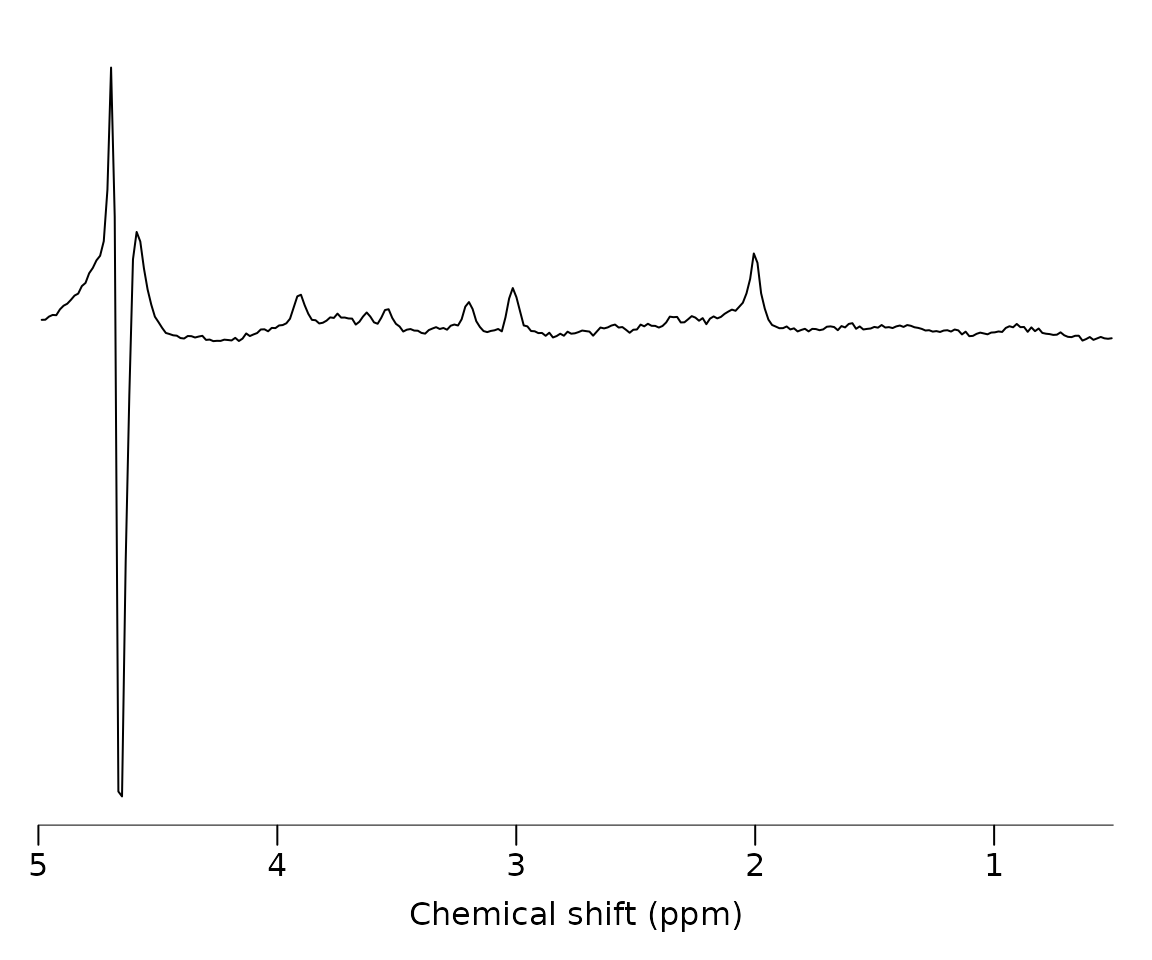
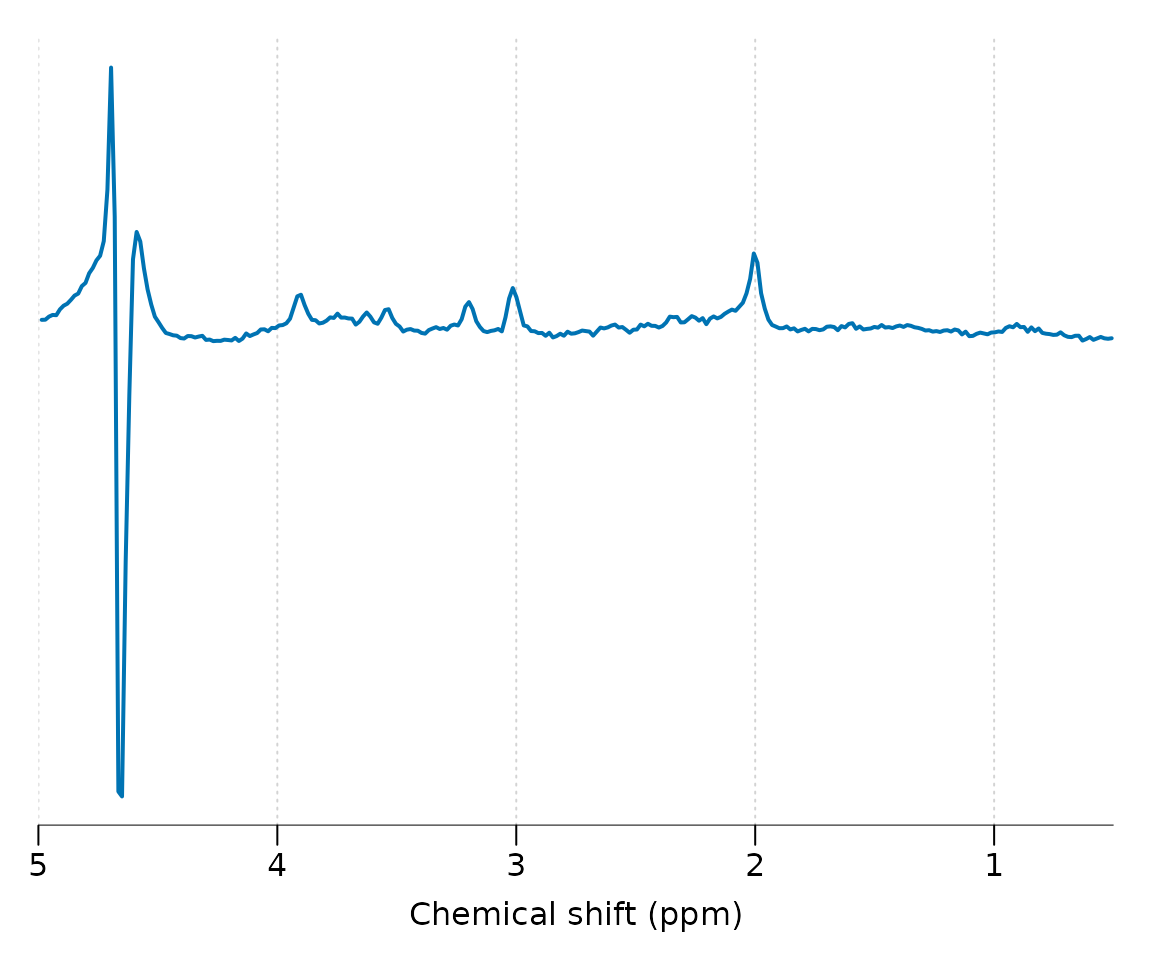
updating site

diff --git a/docs/articles/spant-preprocessing.html b/docs/articles/spant-preprocessing.html
@@ -38,7 +38,7 @@
       </button>
       <span class="navbar-brand">
         <a class="navbar-link" href="../index.html">Spectroscopy Analysis Tools (spant)</a>
-        <span class="version label label-default" data-toggle="tooltip" data-placement="bottom" title="Released version">1.8.0</span>
+        <span class="version label label-default" data-toggle="tooltip" data-placement="bottom" title="Released version">1.9.0</span>
       </span>
     </div>
 
@@ -92,7 +92,7 @@
 
       
 
-      </header><script src="spant-preprocessing_files/accessible-code-block-0.0.1/empty-anchor.js"></script><link href="spant-preprocessing_files/anchor-sections-1.0/anchor-sections.css" rel="stylesheet">
+      </header><script src="spant-preprocessing_files/header-attrs-2.5/header-attrs.js"></script><link href="spant-preprocessing_files/anchor-sections-1.0/anchor-sections.css" rel="stylesheet">
 <script src="spant-preprocessing_files/anchor-sections-1.0/anchor-sections.js"></script><div class="row">
   <div class="col-md-9 contents">
     <div class="page-header toc-ignore">
@@ -111,7 +111,7 @@
 <a href="#reading-raw-data-and-plotting" class="anchor"></a>Reading raw data and plotting</h2>
 <p>Load the spant package:</p>
 <div class="sourceCode" id="cb1"><pre class="downlit sourceCode r">
-<code class="sourceCode R"><span class="kw"><a href="https://rdrr.io/r/base/library.html">library</a></span><span class="op">(</span><span class="va"><a href="https://martin3141.github.io/spant">spant</a></span><span class="op">)</span></code></pre></div>
+<code class="sourceCode R"><span class="kw"><a href="https://rdrr.io/r/base/library.html">library</a></span><span class="op">(</span><span class="va"><a href="https://martin3141.github.io/spant/">spant</a></span><span class="op">)</span></code></pre></div>
 <p>Load some example data for preprocessing:</p>
 <div class="sourceCode" id="cb2"><pre class="downlit sourceCode r">
 <code class="sourceCode R"><span class="va">fname</span> <span class="op">&lt;-</span> <span class="fu"><a href="https://rdrr.io/r/base/system.file.html">system.file</a></span><span class="op">(</span><span class="st">"extdata"</span>, <span class="st">"philips_spar_sdat_WS.SDAT"</span>, package <span class="op">=</span> <span class="st">"spant"</span><span class="op">)</span>
@@ -138,13 +138,13 @@
 <p>Apply a HSVD filter to the residual water region and plot together with the original data:</p>
 <div class="sourceCode" id="cb7"><pre class="downlit sourceCode r">
 <code class="sourceCode R"><span class="va">mrs_data_filt</span> <span class="op">&lt;-</span> <span class="fu"><a href="../reference/hsvd_filt.html">hsvd_filt</a></span><span class="op">(</span><span class="va">mrs_data</span><span class="op">)</span>
-<span class="fu"><a href="../reference/stackplot.html">stackplot</a></span><span class="op">(</span><span class="fu"><a href="../reference/append_dyns.html">append_dyns</a></span><span class="op">(</span><span class="va">mrs_data</span>, <span class="va">mrs_data_filt</span><span class="op">)</span>, xlim <span class="op">=</span> <span class="fu"><a href="https://rdrr.io/r/base/c.html">c</a></span><span class="op">(</span><span class="fl">5</span>, <span class="fl">0.5</span><span class="op">)</span>, y_offset <span class="op">=</span> <span class="fl">10</span>,
+<span class="fu"><a href="../reference/stackplot.html">stackplot</a></span><span class="op">(</span><span class="fu"><a href="https://rdrr.io/r/base/list.html">list</a></span><span class="op">(</span><span class="va">mrs_data</span>, <span class="va">mrs_data_filt</span><span class="op">)</span>, xlim <span class="op">=</span> <span class="fu"><a href="https://rdrr.io/r/base/c.html">c</a></span><span class="op">(</span><span class="fl">5</span>, <span class="fl">0.5</span><span class="op">)</span>, y_offset <span class="op">=</span> <span class="fl">10</span>,
           col <span class="op">=</span> <span class="fu"><a href="https://rdrr.io/r/base/c.html">c</a></span><span class="op">(</span><span class="st">"black"</span>, <span class="st">"red"</span><span class="op">)</span>, labels <span class="op">=</span> <span class="fu"><a href="https://rdrr.io/r/base/c.html">c</a></span><span class="op">(</span><span class="st">"original"</span>, <span class="st">"filtered"</span><span class="op">)</span><span class="op">)</span></code></pre></div>
 <p><img src="spant-preprocessing_files/figure-html/unnamed-chunk-8-1.png" width="576"></p>
 <p>Apply a 0.1 ppm frequency shift and plot together with the original data:</p>
 <div class="sourceCode" id="cb8"><pre class="downlit sourceCode r">
 <code class="sourceCode R"><span class="va">mrs_data_shift</span> <span class="op">&lt;-</span> <span class="fu"><a href="../reference/shift.html">shift</a></span><span class="op">(</span><span class="va">mrs_data</span>, <span class="fl">0.1</span>, <span class="st">"ppm"</span><span class="op">)</span>
-<span class="fu"><a href="../reference/stackplot.html">stackplot</a></span><span class="op">(</span><span class="fu"><a href="../reference/append_dyns.html">append_dyns</a></span><span class="op">(</span><span class="va">mrs_data</span>, <span class="va">mrs_data_shift</span><span class="op">)</span>, xlim <span class="op">=</span> <span class="fu"><a href="https://rdrr.io/r/base/c.html">c</a></span><span class="op">(</span><span class="fl">4</span>, <span class="fl">0.5</span><span class="op">)</span>, y_offset <span class="op">=</span> <span class="fl">10</span>,
+<span class="fu"><a href="../reference/stackplot.html">stackplot</a></span><span class="op">(</span><span class="fu"><a href="https://rdrr.io/r/base/list.html">list</a></span><span class="op">(</span><span class="va">mrs_data</span>, <span class="va">mrs_data_shift</span><span class="op">)</span>, xlim <span class="op">=</span> <span class="fu"><a href="https://rdrr.io/r/base/c.html">c</a></span><span class="op">(</span><span class="fl">4</span>, <span class="fl">0.5</span><span class="op">)</span>, y_offset <span class="op">=</span> <span class="fl">10</span>,
           col <span class="op">=</span> <span class="fu"><a href="https://rdrr.io/r/base/c.html">c</a></span><span class="op">(</span><span class="st">"black"</span>, <span class="st">"red"</span><span class="op">)</span>, labels <span class="op">=</span> <span class="fu"><a href="https://rdrr.io/r/base/c.html">c</a></span><span class="op">(</span><span class="st">"original"</span>, <span class="st">"shifted"</span><span class="op">)</span><span class="op">)</span></code></pre></div>
 <p><img src="spant-preprocessing_files/figure-html/unnamed-chunk-9-1.png" width="576"></p>
 <p>Multiple processing commands may be conveniently combined with the pipe operator “%&gt;%” :</p>

diff --git a/docs/articles/spant-intro.html b/docs/articles/spant-intro.html
@@ -38,7 +38,7 @@
       </button>
       <span class="navbar-brand">
         <a class="navbar-link" href="../index.html">Spectroscopy Analysis Tools (spant)</a>
-        <span class="version label label-default" data-toggle="tooltip" data-placement="bottom" title="Released version">1.8.0</span>
+        <span class="version label label-default" data-toggle="tooltip" data-placement="bottom" title="Released version">1.9.0</span>
       </span>
     </div>
 
@@ -92,7 +92,7 @@
 
       
 
-      </header><script src="spant-intro_files/accessible-code-block-0.0.1/empty-anchor.js"></script><link href="spant-intro_files/anchor-sections-1.0/anchor-sections.css" rel="stylesheet">
+      </header><script src="spant-intro_files/header-attrs-2.5/header-attrs.js"></script><link href="spant-intro_files/anchor-sections-1.0/anchor-sections.css" rel="stylesheet">
 <script src="spant-intro_files/anchor-sections-1.0/anchor-sections.js"></script><div class="row">
   <div class="col-md-9 contents">
     <div class="page-header toc-ignore">
@@ -111,7 +111,7 @@
 <a href="#reading-raw-data-and-plotting" class="anchor"></a>Reading raw data and plotting</h2>
 <p>Load the spant package:</p>
 <div class="sourceCode" id="cb1"><pre class="downlit sourceCode r">
-<code class="sourceCode R"><span class="kw"><a href="https://rdrr.io/r/base/library.html">library</a></span><span class="op">(</span><span class="va"><a href="https://martin3141.github.io/spant">spant</a></span><span class="op">)</span></code></pre></div>
+<code class="sourceCode R"><span class="kw"><a href="https://rdrr.io/r/base/library.html">library</a></span><span class="op">(</span><span class="va"><a href="https://martin3141.github.io/spant/">spant</a></span><span class="op">)</span></code></pre></div>
 <p>Get the path to a data file included with spant:</p>
 <div class="sourceCode" id="cb2"><pre class="downlit sourceCode r">
 <code class="sourceCode R"><span class="va">fname</span> <span class="op">&lt;-</span> <span class="fu"><a href="https://rdrr.io/r/base/system.file.html">system.file</a></span><span class="op">(</span><span class="st">"extdata"</span>, <span class="st">"philips_spar_sdat_WS.SDAT"</span>, package <span class="op">=</span> <span class="st">"spant"</span><span class="op">)</span></code></pre></div>
@@ -184,39 +184,39 @@
 <span class="fu"><a href="https://rdrr.io/r/base/print.html">print</a></span><span class="op">(</span><span class="fu"><a href="https://rdrr.io/r/base/t.html">t</a></span><span class="op">(</span><span class="va">amps</span> <span class="op">/</span> <span class="va">amps</span><span class="op">$</span><span class="va">tCr</span><span class="op">)</span><span class="op">)</span>
 <span class="co">#&gt;               [,1]</span>
 <span class="co">#&gt; X.CrCH2 0.00000000</span>
-<span class="co">#&gt; Ala     0.13263635</span>
-<span class="co">#&gt; Asp     0.57930239</span>
-<span class="co">#&gt; Cr      0.65613370</span>
-<span class="co">#&gt; GABA    0.27511716</span>
-<span class="co">#&gt; Glc     0.03886132</span>
-<span class="co">#&gt; Gln     0.04960294</span>
-<span class="co">#&gt; GSH     0.36407276</span>
-<span class="co">#&gt; Glu     1.06360039</span>
-<span class="co">#&gt; GPC     0.26212372</span>
-<span class="co">#&gt; Ins     0.96287369</span>
-<span class="co">#&gt; Lac     0.09488773</span>
-<span class="co">#&gt; Lip09   0.39105696</span>
-<span class="co">#&gt; Lip13a  0.04416544</span>
+<span class="co">#&gt; Ala     0.13263618</span>
+<span class="co">#&gt; Asp     0.57930247</span>
+<span class="co">#&gt; Cr      0.65613351</span>
+<span class="co">#&gt; GABA    0.27511715</span>
+<span class="co">#&gt; Glc     0.03886092</span>
+<span class="co">#&gt; Gln     0.04960254</span>
+<span class="co">#&gt; GSH     0.36407265</span>
+<span class="co">#&gt; Glu     1.06359979</span>
+<span class="co">#&gt; GPC     0.26212366</span>
+<span class="co">#&gt; Ins     0.96287314</span>
+<span class="co">#&gt; Lac     0.09488779</span>
+<span class="co">#&gt; Lip09   0.39105705</span>
+<span class="co">#&gt; Lip13a  0.04416531</span>
 <span class="co">#&gt; Lip13b  0.00000000</span>
 <span class="co">#&gt; Lip20   0.00000000</span>
-<span class="co">#&gt; MM09    0.15617583</span>
-<span class="co">#&gt; MM12    0.10599999</span>
-<span class="co">#&gt; MM14    0.42512964</span>
-<span class="co">#&gt; MM17    0.36527912</span>
-<span class="co">#&gt; MM20    1.49722036</span>
-<span class="co">#&gt; NAA     0.97895893</span>
-<span class="co">#&gt; NAAG    0.25450364</span>
+<span class="co">#&gt; MM09    0.15617567</span>
+<span class="co">#&gt; MM12    0.10599997</span>
+<span class="co">#&gt; MM14    0.42512960</span>
+<span class="co">#&gt; MM17    0.36527891</span>
+<span class="co">#&gt; MM20    1.49721969</span>
+<span class="co">#&gt; NAA     0.97895883</span>
+<span class="co">#&gt; NAAG    0.25450385</span>
 <span class="co">#&gt; PCh     0.00000000</span>
-<span class="co">#&gt; PCr     0.34386630</span>
-<span class="co">#&gt; sIns    0.10613135</span>
+<span class="co">#&gt; PCr     0.34386649</span>
+<span class="co">#&gt; sIns    0.10613129</span>
 <span class="co">#&gt; Tau     0.00000000</span>
-<span class="co">#&gt; tNAA    1.23346257</span>
+<span class="co">#&gt; tNAA    1.23346269</span>
 <span class="co">#&gt; tCr     1.00000000</span>
-<span class="co">#&gt; tCho    0.26212372</span>
-<span class="co">#&gt; Glx     1.11320334</span>
-<span class="co">#&gt; tLM09   0.54723280</span>
-<span class="co">#&gt; tLM13   0.57529507</span>
-<span class="co">#&gt; tLM20   1.49722036</span></code></pre></div>
+<span class="co">#&gt; tCho    0.26212366</span>
+<span class="co">#&gt; Glx     1.11320233</span>
+<span class="co">#&gt; tLM09   0.54723272</span>
+<span class="co">#&gt; tLM13   0.57529487</span>
+<span class="co">#&gt; tLM20   1.49721969</span></code></pre></div>
 </div>
   </div>
 

diff --git a/docs/index.html b/docs/index.html
@@ -19,7 +19,9 @@
 <!-- clipboard.js --><script src="https://cdnjs.cloudflare.com/ajax/libs/clipboard.js/2.0.6/clipboard.min.js" integrity="sha256-inc5kl9MA1hkeYUt+EC3BhlIgyp/2jDIyBLS6k3UxPI=" crossorigin="anonymous"></script><!-- headroom.js --><script src="https://cdnjs.cloudflare.com/ajax/libs/headroom/0.11.0/headroom.min.js" integrity="sha256-AsUX4SJE1+yuDu5+mAVzJbuYNPHj/WroHuZ8Ir/CkE0=" crossorigin="anonymous"></script><script src="https://cdnjs.cloudflare.com/ajax/libs/headroom/0.11.0/jQuery.headroom.min.js" integrity="sha256-ZX/yNShbjqsohH1k95liqY9Gd8uOiE1S4vZc+9KQ1K4=" crossorigin="anonymous"></script><!-- pkgdown --><link href="pkgdown.css" rel="stylesheet">
 <script src="pkgdown.js"></script><meta property="og:title" content="MR Spectroscopy Analysis Tools">
 <meta property="og:description" content="Tools for reading, visualising and processing Magnetic Resonance
-    Spectroscopy data.">
+    Spectroscopy data. The package includes methods for spectral fitting: Wilson
+    (2021) &lt;DOI:10.1002/mrm.28385&gt; and spectral alignment: Wilson (2018)
+    &lt;DOI:10.1002/mrm.27605&gt;. ">
 <meta property="og:image" content="https://martin3141.github.io/spant/logo.png">
 <!-- mathjax --><script src="https://cdnjs.cloudflare.com/ajax/libs/mathjax/2.7.5/MathJax.js" integrity="sha256-nvJJv9wWKEm88qvoQl9ekL2J+k/RWIsaSScxxlsrv8k=" crossorigin="anonymous"></script><script src="https://cdnjs.cloudflare.com/ajax/libs/mathjax/2.7.5/config/TeX-AMS-MML_HTMLorMML.js" integrity="sha256-84DKXVJXs0/F8OTMzX4UR909+jtl4G7SPypPavF+GfA=" crossorigin="anonymous"></script><!--[if lt IE 9]>
 <script src="https://oss.maxcdn.com/html5shiv/3.7.3/html5shiv.min.js"></script>
@@ -39,7 +41,7 @@
       </button>
       <span class="navbar-brand">
         <a class="navbar-link" href="index.html">Spectroscopy Analysis Tools (spant)</a>
-        <span class="version label label-default" data-toggle="tooltip" data-placement="bottom" title="Released version">1.8.0</span>
+        <span class="version label label-default" data-toggle="tooltip" data-placement="bottom" title="Released version">1.9.0</span>
       </span>
     </div>
 
@@ -135,7 +137,7 @@
 <p>Quick introduction to the basic analysis workflow : <a href="https://martin3141.github.io/spant/articles/spant-intro.html" class="uri">https://martin3141.github.io/spant/articles/spant-intro.html</a></p>
 <p>Short tutorials : <a href="https://martin3141.github.io/spant/articles/" class="uri">https://martin3141.github.io/spant/articles/</a></p>
 <p>Function reference : <a href="https://martin3141.github.io/spant/reference/" class="uri">https://martin3141.github.io/spant/reference/</a></p>
-<p>Once the spant library has been loaded with <code><a href="https://martin3141.github.io/spant">library(spant)</a></code>, type <code><a href="reference/spant-package.html">?spant</a></code> on the console for instructions on how to access the offline documentation. Note that offline help on the available functions can be quickly shown in RStudio using <code>?function_name</code>, eg <code><a href="reference/read_mrs.html">?read_mrs</a></code>.</p>
+<p>Once the spant library has been loaded with <code><a href="https://martin3141.github.io/spant/">library(spant)</a></code>, type <code><a href="reference/spant-package.html">?spant</a></code> on the console for instructions on how to access the offline documentation. Note that offline help on the available functions can be quickly shown in RStudio using <code>?function_name</code>, eg <code><a href="reference/read_mrs.html">?read_mrs</a></code>.</p>
 </div>
 </div>
   </div>
@@ -148,7 +150,7 @@
 </li>
 <li>Browse source code at <br><a href="https://github.com/martin3141/spant/">https://github.com/martin3141/spant/</a>
 </li>
-<li>Report a bug at <br><a href="https://github.com/martin3141/spant/issues">https://github.com/martin3141/spant/issues</a>
+<li>Report a bug at <br><a href="https://github.com/martin3141/spant/issues/">https://github.com/martin3141/spant/issues/</a>
 </li>
 </ul>
 </div>
@@ -161,7 +163,7 @@
 <div class="developers">
 <h2>Developers</h2>
 <ul class="list-unstyled">
-<li>Martin Wilson <br><small class="roles"> Maintainer, author </small>  </li>
+<li>Martin Wilson <br><small class="roles"> Maintainer, author </small> <a href="https://orcid.org/0000-0002-2089-3956" target="orcid.widget" aria-label="ORCID"><span class="fab fa-orcid orcid" aria-hidden="true"></span></a> </li>
 <li><a href="authors.html">All authors...</a></li>
 </ul>
 </div>

diff --git a/docs/articles/abfit-baseline-opts.html b/docs/articles/abfit-baseline-opts.html
@@ -38,7 +38,7 @@
       </button>
       <span class="navbar-brand">
         <a class="navbar-link" href="../index.html">Spectroscopy Analysis Tools (spant)</a>
-        <span class="version label label-default" data-toggle="tooltip" data-placement="bottom" title="Released version">1.8.0</span>
+        <span class="version label label-default" data-toggle="tooltip" data-placement="bottom" title="Released version">1.9.0</span>
       </span>
     </div>
 
@@ -92,7 +92,7 @@
 
       
 
-      </header><script src="abfit-baseline-opts_files/accessible-code-block-0.0.1/empty-anchor.js"></script><link href="abfit-baseline-opts_files/anchor-sections-1.0/anchor-sections.css" rel="stylesheet">
+      </header><script src="abfit-baseline-opts_files/header-attrs-2.5/header-attrs.js"></script><link href="abfit-baseline-opts_files/anchor-sections-1.0/anchor-sections.css" rel="stylesheet">
 <script src="abfit-baseline-opts_files/anchor-sections-1.0/anchor-sections.js"></script><div class="row">
   <div class="col-md-9 contents">
     <div class="page-header toc-ignore">
@@ -116,7 +116,7 @@
 <a href="#default-analysis" class="anchor"></a>Default analysis</h2>
 <p>Load the spant analysis package:</p>
 <div class="sourceCode" id="cb1"><pre class="downlit sourceCode r">
-<code class="sourceCode R"><span class="kw"><a href="https://rdrr.io/r/base/library.html">library</a></span><span class="op">(</span><span class="va"><a href="https://martin3141.github.io/spant">spant</a></span><span class="op">)</span></code></pre></div>
+<code class="sourceCode R"><span class="kw"><a href="https://rdrr.io/r/base/library.html">library</a></span><span class="op">(</span><span class="va"><a href="https://martin3141.github.io/spant/">spant</a></span><span class="op">)</span></code></pre></div>
 <p>Read an example dataset from file and simulate matching basis set:</p>
 <div class="sourceCode" id="cb2"><pre class="downlit sourceCode r">
 <code class="sourceCode R"><span class="va">fname</span>    <span class="op">&lt;-</span> <span class="fu"><a href="https://rdrr.io/r/base/system.file.html">system.file</a></span><span class="op">(</span><span class="st">"extdata"</span>, <span class="st">"philips_spar_sdat_WS.SDAT"</span>, package <span class="op">=</span> <span class="st">"spant"</span><span class="op">)</span>

diff --git a/docs/news/index.html b/docs/news/index.html
@@ -79,7 +79,7 @@
       </button>
       <span class="navbar-brand">
         <a class="navbar-link" href="../index.html">Spectroscopy Analysis Tools (spant)</a>
-        <span class="version label label-default" data-toggle="tooltip" data-placement="bottom" title="Released version">1.8.0</span>
+        <span class="version label label-default" data-toggle="tooltip" data-placement="bottom" title="Released version">1.9.0</span>
       </span>
     </div>
 
@@ -140,9 +140,26 @@
       <small>Source: <a href='https://github.com/martin3141/spant/blob/master/NEWS.md'><code>NEWS.md</code></a></small>
     </div>
 
+    <div id="spant-190" class="section level1">
+<h1 class="page-header" data-toc-text="1.9.0">
+<a href="#spant-190" class="anchor"></a>spant 1.9.0<small> Unreleased </small>
+</h1>
+<ul>
+<li>NIfTI MRS reader and writer now uses the header extension for metadata. Thanks to Jon Clayden for adding extension read/write support to the RNifti package.</li>
+<li>Default plots now have gridlines in the y-direction and the plot line is now thicker and colored blue.</li>
+<li>Opacity option added to the plotting functions (alpha).</li>
+<li>Bug fix for comb_coils with SVS data.</li>
+<li>Bug fixes for Siemens geometry information.</li>
+<li>Changed the ordering of arguments to write_mrs and write_mrs_nifti to improve consistency with other functions.</li>
+<li>Internal function (ortho3) now used to plot voxel locations on MRI.</li>
+<li>Internal dicom reader function added.</li>
+<li>Tentative support for Siemens and Philips DICOM MRS format added.</li>
+<li>Internal changes to the way orientation information is handled.</li>
+</ul>
+</div>
     <div id="spant-180" class="section level1">
 <h1 class="page-header" data-toc-text="1.8.0">
-<a href="#spant-180" class="anchor"></a>spant 1.8.0<small> Unreleased </small>
+<a href="#spant-180" class="anchor"></a>spant 1.8.0<small> 2020-11-18 </small>
 </h1>
 <ul>
 <li>Added gridplot function.</li>

diff --git a/docs/authors.html b/docs/authors.html
@@ -79,7 +79,7 @@
       </button>
       <span class="navbar-brand">
         <a class="navbar-link" href="index.html">Spectroscopy Analysis Tools (spant)</a>
-        <span class="version label label-default" data-toggle="tooltip" data-placement="bottom" title="Released version">1.8.0</span>
+        <span class="version label label-default" data-toggle="tooltip" data-placement="bottom" title="Released version">1.9.0</span>
       </span>
     </div>
 
@@ -141,7 +141,7 @@
 
     <ul class="list-unstyled">
       <li>
-        <p><strong>Martin Wilson</strong>. Maintainer, author. 
+        <p><strong>Martin Wilson</strong>. Maintainer, author. <a href='https://orcid.org/0000-0002-2089-3956' target='orcid.widget' aria-label='ORCID'><span class='fab fa-orcid orcid' aria-hidden='true'></span></a>
         </p>
       </li>
       <li>

diff --git a/docs/articles/abfit-baseline-opts_files/header-attrs-2.5/header-attrs.js b/docs/articles/abfit-baseline-opts_files/header-attrs-2.5/header-attrs.js
@@ -1,0 +1,12 @@
+// Pandoc 2.9 adds attributes on both header and div. We remove the former (to
+// be compatible with the behavior of Pandoc < 2.8).
+document.addEventListener('DOMContentLoaded', function(e) {
+  var hs = document.querySelectorAll("div.section[class*='level'] > :first-child");
+  var i, h, a;
+  for (i = 0; i < hs.length; i++) {
+    h = hs[i];
+    if (!/^h[1-6]$/i.test(h.tagName)) continue;  // it should be a header h1-h6
+    a = h.attributes;
+    while (a.length > 0) h.removeAttribute(a[0].name);
+  }
+});

diff --git a/docs/articles/spant-intro_files/header-attrs-2.5/header-attrs.js b/docs/articles/spant-intro_files/header-attrs-2.5/header-attrs.js
@@ -1,0 +1,12 @@
+// Pandoc 2.9 adds attributes on both header and div. We remove the former (to
+// be compatible with the behavior of Pandoc < 2.8).
+document.addEventListener('DOMContentLoaded', function(e) {
+  var hs = document.querySelectorAll("div.section[class*='level'] > :first-child");
+  var i, h, a;
+  for (i = 0; i < hs.length; i++) {
+    h = hs[i];
+    if (!/^h[1-6]$/i.test(h.tagName)) continue;  // it should be a header h1-h6
+    a = h.attributes;
+    while (a.length > 0) h.removeAttribute(a[0].name);
+  }
+});

diff --git a/docs/articles/spant-preprocessing_files/header-attrs-2.5/header-attrs.js b/docs/articles/spant-preprocessing_files/header-attrs-2.5/header-attrs.js
@@ -1,0 +1,12 @@
+// Pandoc 2.9 adds attributes on both header and div. We remove the former (to
+// be compatible with the behavior of Pandoc < 2.8).
+document.addEventListener('DOMContentLoaded', function(e) {
+  var hs = document.querySelectorAll("div.section[class*='level'] > :first-child");
+  var i, h, a;
+  for (i = 0; i < hs.length; i++) {
+    h = hs[i];
+    if (!/^h[1-6]$/i.test(h.tagName)) continue;  // it should be a header h1-h6
+    a = h.attributes;
+    while (a.length > 0) h.removeAttribute(a[0].name);
+  }
+});

diff --git a/docs/404.html b/docs/404.html
@@ -79,7 +79,7 @@
       </button>
       <span class="navbar-brand">
         <a class="navbar-link" href="https://martin3141.github.io/spant//index.html">Spectroscopy Analysis Tools (spant)</a>
-        <span class="version label label-default" data-toggle="tooltip" data-placement="bottom" title="Released version">1.8.0</span>
+        <span class="version label label-default" data-toggle="tooltip" data-placement="bottom" title="Released version">1.9.0</span>
       </span>
     </div>
 

diff --git a/docs/articles/index.html b/docs/articles/index.html
@@ -79,7 +79,7 @@
       </button>
       <span class="navbar-brand">
         <a class="navbar-link" href="../index.html">Spectroscopy Analysis Tools (spant)</a>
-        <span class="version label label-default" data-toggle="tooltip" data-placement="bottom" title="Released version">1.8.0</span>
+        <span class="version label label-default" data-toggle="tooltip" data-placement="bottom" title="Released version">1.9.0</span>
       </span>
     </div>
 
